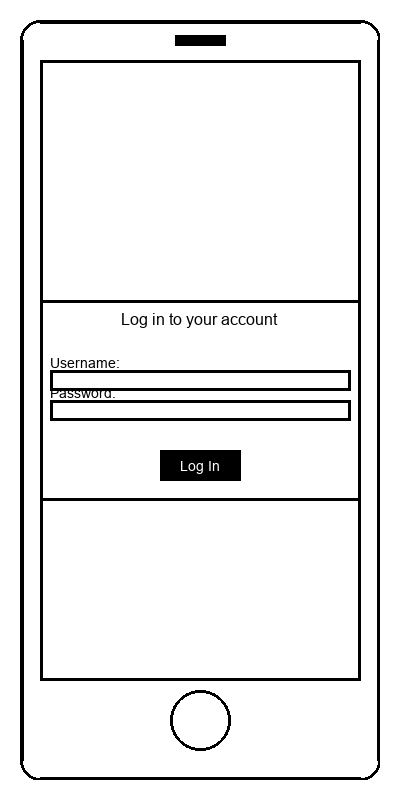
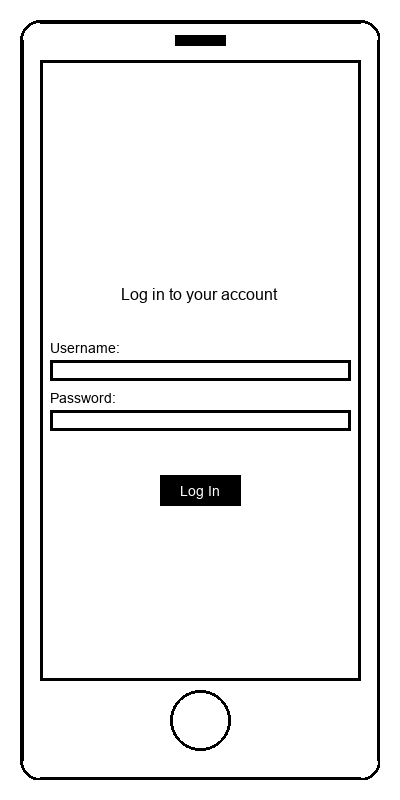
Update Login and Register Form

Changed region(s): [[0.12, 0.3438, 0.9, 0.6562]]

diff --git a/backend/myenv/main.py b/backend/myenv/main.py
@@ -28,7 +28,6 @@ if __name__ == "__main__":
         print(json.dumps(str(e)), file=sys.stderr)
         sys.exit(1)
 
-
 def syntax_analysis(script):
     actor_pattern = r'actor\s+(\w+)'
     usecase_pattern = r'usecase\s+"(.*?)"\s+as\s+(\w+)'
@@ -101,7 +100,6 @@ def phone_template(size, radius, fill, border_color, border_width):
     rectangle = Image.new('RGBA', (width, height), (255, 255, 255, 0))
     corner = round_corner(radius, fill)
     
-    # Paste corners
     rectangle.paste(corner, (0, 0))
     rectangle.paste(corner.rotate(90), (0, height - radius))
     rectangle.paste(corner.rotate(180), (width - radius, height - radius))
@@ -109,39 +107,31 @@ def phone_template(size, radius, fill, border_color, border_width):
     
     draw = ImageDraw.Draw(rectangle)
     
-    # edges
     draw.rectangle([radius, 0, width - radius, border_width], fill=border_color)  # Top edge
     draw.rectangle([radius, height - border_width, width - radius, height], fill=border_color)  # Bottom edge
     draw.rectangle([0, radius, border_width, height - radius], fill=border_color)  # Left edge
     draw.rectangle([width - border_width, radius, width, height - radius], fill=border_color)  # Right edge
     
-    # arcs for rounded corners
     draw.arc([(0, 0), (radius * 2, radius * 2)], 180, 270, fill=border_color, width=border_width)
     draw.arc([(width - radius * 2, 0), (width, radius * 2)], 270, 360, fill=border_color, width=border_width)
     draw.arc([(0, height - radius * 2), (radius * 2, height)], 90, 180, fill=border_color, width=border_width)
     draw.arc([(width - radius * 2, height - radius * 2), (width, height)], 0, 90, fill=border_color, width=border_width)
     
-    # screen area centered horizontally and with equal spaces above and below
     screen_margin = 20
-    screen_width = width - 5 * screen_margin
     screen_height = height - 100 - 2 * screen_margin
     
-    # Calculate equal spaces above and below the screen area
     total_vertical_space = height - 100 - screen_height
     top_space = total_vertical_space // 2
-    bottom_space = total_vertical_space - top_space
     
     screen = [screen_margin, top_space + screen_margin, width - screen_margin, top_space + screen_margin + screen_height]
     draw.rectangle(screen, outline=border_color, width=border_width)
     
-    # top speaker
     speaker_width = 50
     speaker_height = 10
     speaker = [(width - speaker_width) // 2, screen[1] // 2 - speaker_height // 2,
                (width + speaker_width) // 2, screen[1] // 2 + speaker_height // 2]
     draw.rectangle(speaker, fill=border_color)
     
-    # home button moved higher
     button_radius = 30
     button_center = (width // 2, height - screen_margin - button_radius - 10)  # Moved up by 10 units
     draw.ellipse([(button_center[0] - button_radius, button_center[1] - button_radius),
@@ -181,13 +171,9 @@ def generate_phone_wireframe_template(elements, image_path):
 
 def draw_login_form(draw, screen_margin, screen_width, screen_height, border_width):
     form_width = screen_width - 40
-    form_height = 200
+    form_height = 250
     form_x = (screen_width - form_width) // 2
     form_y = (screen_height - form_height) // 2
-
-    draw.rectangle([screen_margin + form_x, screen_margin + form_y,
-                    screen_margin + form_x + form_width, screen_margin + form_y + form_height],
-                   outline="black", width=border_width)
 
     title_text = "Log in to your account"
     title_font_size = 16
@@ -209,18 +195,29 @@ def draw_login_form(draw, screen_margin, screen_width, screen_height, border_wid
         label_font = ImageFont.load_default()
     username_label = "Username:"
     password_label = "Password:"
-    username_bbox = draw.textbbox((0, 0), username_label, font=label_font)
-    password_bbox = draw.textbbox((0, 0), password_label, font=label_font)
-    draw.text((screen_margin + form_x + 10, title_y + title_height + 30), username_label, fill="black", font=label_font)
-    draw.text((screen_margin + form_x + 10, title_y + title_height + 60), password_label, fill="black", font=label_font)
+    # Add space between title and username label
+    space_after_title = 40
+    username_label_y = title_y + title_height + space_after_title
+    draw.text((screen_margin + form_x + 10, username_label_y), username_label, fill="black", font=label_font)
+    
+    # Add space between username label and password label
+    space_after_username_label = 50
+    password_label_y = username_label_y + space_after_username_label
+    draw.text((screen_margin + form_x + 10, password_label_y), password_label, fill="black", font=label_font)
 
     field_width = form_width - 20
     field_height = 20
-    username_field_y = title_y + title_height + 45
-    password_field_y = title_y + title_height + 75
+    
+    # Add space between username label and username field
+    space_after_username_label = 20
+    username_field_y = username_label_y + space_after_username_label
     draw.rectangle([screen_margin + form_x + 10, username_field_y,
                     screen_margin + form_x + 10 + field_width, username_field_y + field_height],
                    outline="black", width=border_width)
+    
+    # Add space between password label and password field
+    space_after_password_label = 20
+    password_field_y = password_label_y + space_after_password_label
     draw.rectangle([screen_margin + form_x + 10, password_field_y,
                     screen_margin + form_x + 10 + field_width, password_field_y + field_height],
                    outline="black", width=border_width)
@@ -247,13 +244,9 @@ def draw_login_form(draw, screen_margin, screen_width, screen_height, border_wid
 
 def draw_register_form(draw, screen_margin, screen_width, screen_height, border_width):
     form_width = screen_width - 40
-    form_height = 200
+    form_height = 300
     form_x = (screen_width - form_width) // 2
     form_y = (screen_height - form_height) // 2
-
-    draw.rectangle([screen_margin + form_x, screen_margin + form_y,
-                    screen_margin + form_x + form_width, screen_margin + form_y + form_height],
-                   outline="black", width=border_width)
 
     title_text = "Register your account"
     title_font_size = 16
@@ -277,21 +270,29 @@ def draw_register_form(draw, screen_margin, screen_width, screen_height, border_
     email_label = "Email:"
     password_label = "Password:"
     confirm_password_label = "Confirm Password:"
-    username_bbox = draw.textbbox((0, 0), username_label, font=label_font)
-    email_bbox = draw.textbbox((0, 0), email_label, font=label_font)
-    password_bbox = draw.textbbox((0, 0), password_label, font=label_font)
-    confirm_password_bbox = draw.textbbox((0, 0), confirm_password_label, font=label_font)
-    draw.text((screen_margin + form_x + 10, title_y + title_height + 30), username_label, fill="black", font=label_font)
-    draw.text((screen_margin + form_x + 10, title_y + title_height + 60), email_label, fill="black", font=label_font)
-    draw.text((screen_margin + form_x + 10, title_y + title_height + 90), password_label, fill="black", font=label_font)
-    draw.text((screen_margin + form_x + 10, title_y + title_height + 120), confirm_password_label, fill="black", font=label_font)
+    # Add spaces between labels and fields
+    space_after_title = 40
+    space_between_labels = 50
+    space_between_label_and_field = 20
+
+    username_label_y = title_y + title_height + space_after_title
+    email_label_y = username_label_y + space_between_labels
+    password_label_y = email_label_y + space_between_labels
+    confirm_password_label_y = password_label_y + space_between_labels
+
+    draw.text((screen_margin + form_x + 10, username_label_y), username_label, fill="black", font=label_font)
+    draw.text((screen_margin + form_x + 10, email_label_y), email_label, fill="black", font=label_font)
+    draw.text((screen_margin + form_x + 10, password_label_y), password_label, fill="black", font=label_font)
+    draw.text((screen_margin + form_x + 10, confirm_password_label_y), confirm_password_label, fill="black", font=label_font)
 
     field_width = form_width - 20
     field_height = 20
-    username_field_y = title_y + title_height + 45
-    email_field_y = title_y + title_height + 75
-    password_field_y = title_y + title_height + 105
-    confirm_password_field_y = title_y + title_height + 135
+
+    username_field_y = username_label_y + space_between_label_and_field
+    email_field_y = email_label_y + space_between_label_and_field
+    password_field_y = password_label_y + space_between_label_and_field
+    confirm_password_field_y = confirm_password_label_y + space_between_label_and_field
+
     draw.rectangle([screen_margin + form_x + 10, username_field_y,
                     screen_margin + form_x + 10 + field_width, username_field_y + field_height],
                    outline="black", width=border_width)
@@ -308,7 +309,7 @@ def draw_register_form(draw, screen_margin, screen_width, screen_height, border_
     button_width = 80
     button_height = 30
     button_x = (screen_width - button_width) // 2
-    button_y = form_y + form_height - button_height - 20
+    button_y = confirm_password_field_y + field_height + 20  # Ensure button is below the last field
     draw.rectangle([screen_margin + button_x, screen_margin + button_y,
                     screen_margin + button_x + button_width, screen_margin + button_y + button_height],
                    fill="black")
@@ -339,7 +340,6 @@ def main():
     plantuml_script = sys.argv[1]
     output_dir = 'C:/Users/Alyssa Vivien/NodeJSProjects/wirefully_softeng/backend/myenv/generated_images'
     
-    # Validate the PlantUML script
     try:
         validate_plantuml_script(plantuml_script)
     except ValueError as e:
@@ -349,17 +349,14 @@ def main():
     parsed_text = parse_text(plantuml_script)
     print("Parsed Text:", parsed_text)
 
-    # Perform syntax analysis
     actors, usecases, relationships = syntax_analysis(plantuml_script)
     print("Actors:", actors)
     print("Use Cases:", usecases)
     print("Relationships:", relationships)
 
-    # Map to wireframe elements
     wireframe_elements_list = map_to_wireframe_elements(actors, usecases, relationships)
     print("Wireframe Elements:", wireframe_elements_list)
 
-    # Generate wireframe templates and save the images
     image_paths = []
     for idx, elements in enumerate(wireframe_elements_list):
         image_filename = f'phone_wireframe_template_{idx + 1}.png'
@@ -367,7 +364,6 @@ def main():
         generated_image_path = generate_phone_wireframe_template(elements, image_path)
         image_paths.append(generated_image_path)
     
-    # Print and return the image paths
     print("Image Paths:", image_paths)
     relative_image_paths = [os.path.relpath(path, output_dir) for path in image_paths]
     print("Relative Image Paths:", relative_image_paths)
